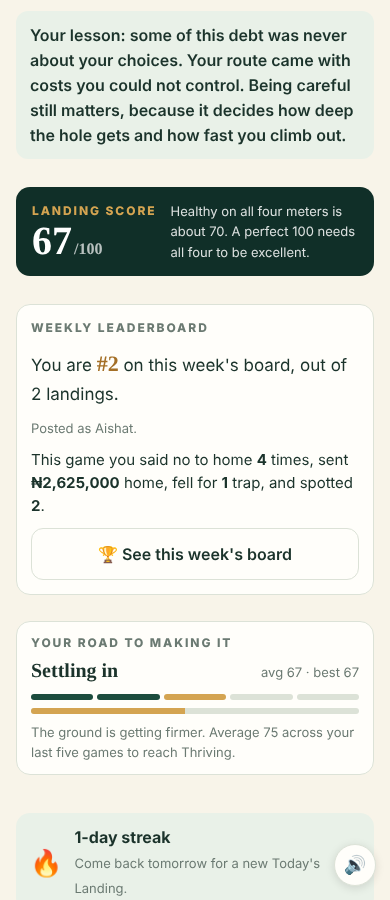
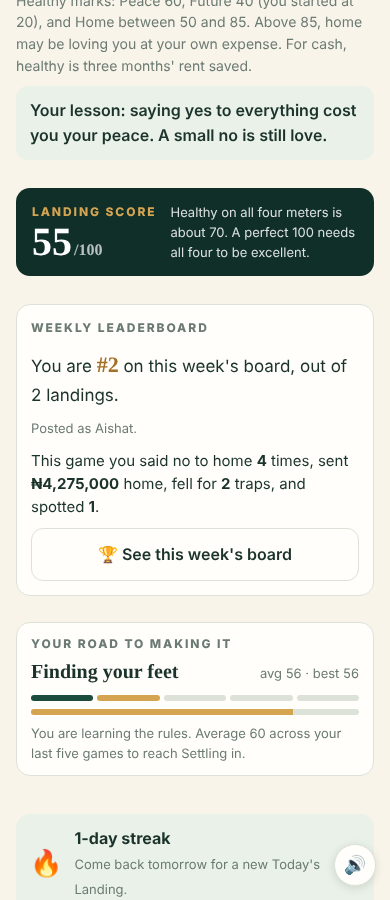
Voice notes go back to the bad network joke
Claude-Session: https://claude.ai/code/session_01RtxNzUyAGZCdrsYtNVf3P3

diff --git a/index.html b/index.html
@@ -1776,28 +1776,10 @@ function vnToast(msg){
   if(!t){ t = document.createElement('div'); t.id = 'ftoast'; t.setAttribute('role','status'); document.body.appendChild(t); }
   t.textContent = msg; t.classList.add('on'); clearTimeout(t._h); t._h = setTimeout(()=>t.classList.remove('on'), 2600);
 }
-function pickVoice(){
-  const vs = (window.speechSynthesis && speechSynthesis.getVoices()) || [];
-  return vs.find(v=>/en[-_]NG/i.test(v.lang)) || vs.find(v=>/en[-_](GB|ZA|KE|GH)/i.test(v.lang)) || vs.find(v=>/^en/i.test(v.lang)) || null;
-}
-try{ if(window.speechSynthesis) speechSynthesis.getVoices(); }catch(e){}   // some browsers load voices late
 function playVN(el){
-  track('voicenote-tap');
-  const say = (el.dataset.say||'').replace(/\s+/g,' ').trim(), synth = window.speechSynthesis;
-  if(!SFX.on){ vnToast('Turn the sound on to hear voice notes.'); return; }
-  if(!say || !synth || typeof SpeechSynthesisUtterance === 'undefined'){
-    SFX.crackle(); el.classList.add('playing'); setTimeout(()=>el.classList.remove('playing'), 1400);
-    vnToast(VN_LINES[Math.floor(Math.random()*VN_LINES.length)]); return;
-  }
-  const hint = el.querySelector('.vn-hint');
-  if(synth.speaking){ synth.cancel(); el.classList.remove('playing'); if(hint) hint.textContent = 'Tap to play'; return; }
-  const u = new SpeechSynthesisUtterance(say), v = pickVoice();
-  if(v){ u.voice = v; u.lang = v.lang; } u.rate = 0.95; u.pitch = 1.1;
-  const stop = () => { el.classList.remove('playing'); if(hint) hint.textContent = 'Tap to play'; };
-  u.onend = stop; u.onerror = stop;
-  el.classList.add('playing'); if(hint) hint.textContent = 'Playing · tap to stop';
-  track('voicenote-play' + (v && /NG/i.test(v.lang) ? '-ng' : ''));
-  synth.speak(u);
+  SFX.crackle(); track('voicenote-tap');
+  el.classList.add('playing'); setTimeout(()=>el.classList.remove('playing'), 1400);
+  vnToast(VN_LINES[Math.floor(Math.random()*VN_LINES.length)]);
 }
 
 
